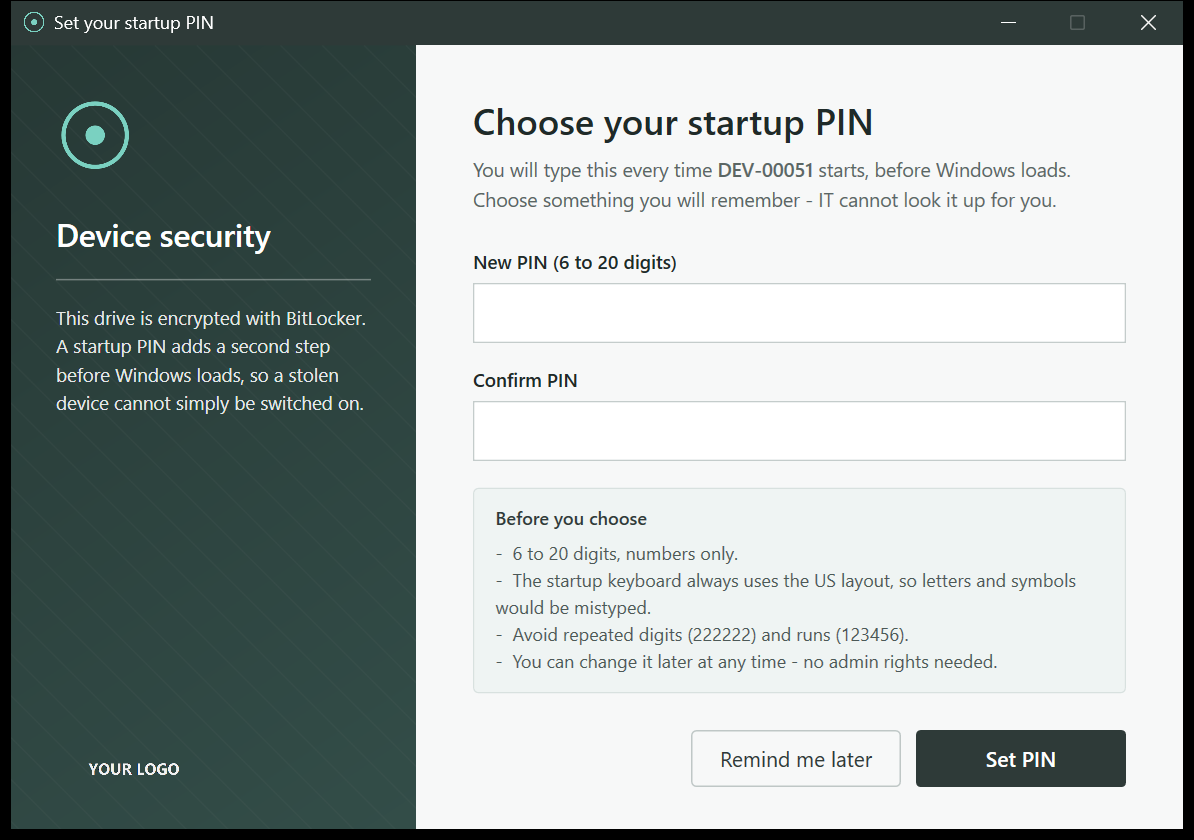
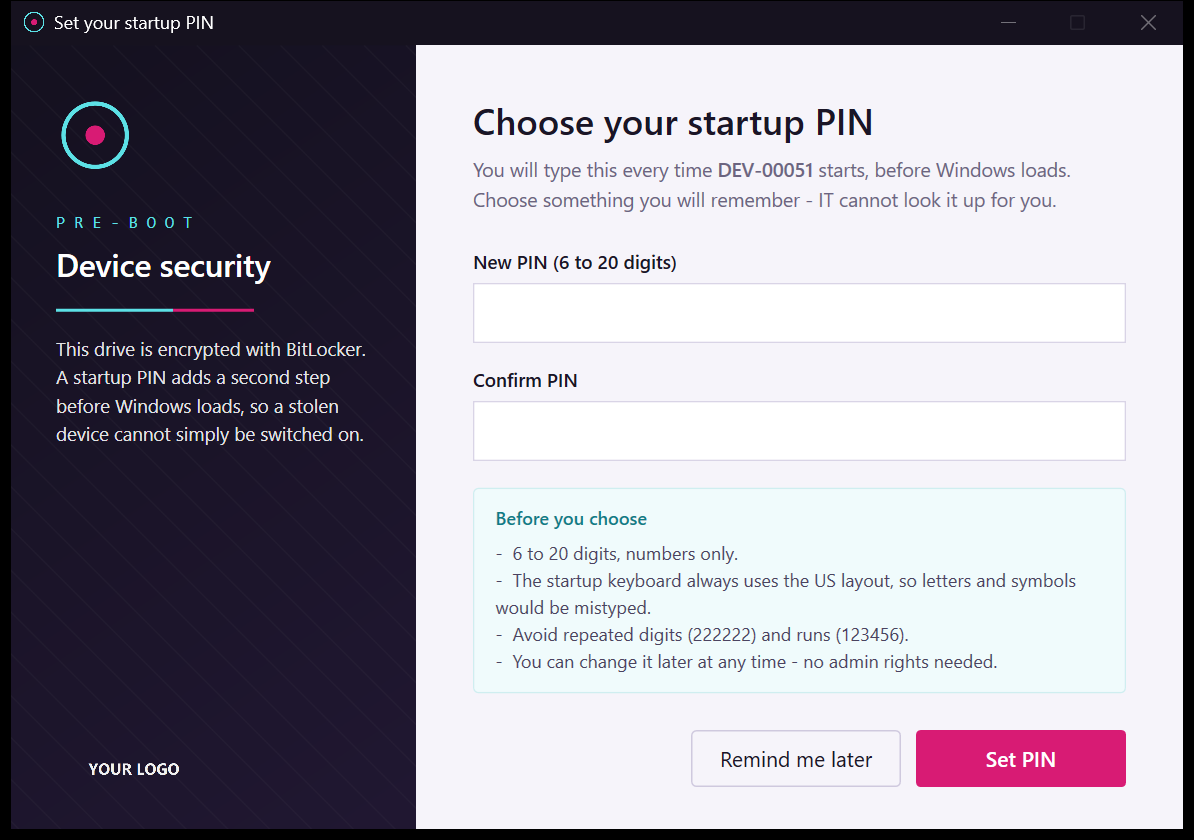
feat: re-theme both windows as an arcade cabinet
The palette was a desaturated green-grey that read as neither corporate nor
deliberate. It is replaced by an arcade cabinet: a violet-black body, CRT
phosphor cyan, and a magenta marquee.

Deliberately not near-black plus an acid-green accent, which is where this kind
of retheme usually lands and is close to where the palette already was.

  Cabinet        #FF16121F   rail, window, title bar
  Rail scrim     #B316121F   over the wallpaper
  Phosphor       #FF5CE1E6   eyebrow and rule, dark surfaces only
  Phosphor deep  #FF0E7C86   the same cyan as text on light
  Marquee        #FFD81B74   primary button
  Marquee lift   #FFFF4D9D   hover, and the rule's second half
  Screen         #FFF6F4FA   form panel
  Ink            #FF1A1526   body text

The boldness is spent on the rail and nowhere else. A security prompt that looks
like a game gets dismissed, or reported as phishing, so the form panel keeps a
quiet neutral treatment and only the primary button and the tinted panel carry
the accent. An early pass set the form's section label in spaced monospace too;
that pulled the arcade register onto the work surface and was reverted.

The rail gains an eyebrow reading P R E - B O O T, spaced by hand because WPF has
no character-spacing property, and the flat 35%-white hairline becomes a two-tone
rule that introduces both accents before either does functional work. The eyebrow
names the boot stage, so the device encodes something true rather than decorating.
[…]

diff --git a/BRANDING.md b/BRANDING.md
@@ -78,18 +78,38 @@ and set the rail colour (see below).
 
 ## Colours
 
-| Knob | Default | What it does |
+The palette is an arcade cabinet: a violet-black body, CRT phosphor cyan, and a
+magenta marquee. The rail carries all of it. The form panel stays quiet, because
+a security prompt that looks like a game gets dismissed or reported as phishing.
+
+| Token | Value | Where it is used |
 |---|---|---|
-| `-BrandColour` on `Get-BrandXaml` | `#FF16121F` | Fills the rail when there is no `brand-background.png`. It is the same value as the window background, so an unbranded rail reads as a design choice |
-| Window background (in the XAML) | `#FF16121F` | Also painted onto the **native Windows 11 title bar** through DWM, so the real minimise/close buttons, snapping and accessibility all keep working — a hand-rolled caption bar would lose those. Silently ignored on Windows 10 |
-| Rail scrim | `#B316121F` | Fixed. See above |
+| Cabinet | `#FF16121F` | Rail fallback (`-BrandColour` on `Get-BrandXaml`), window background, and the native title bar — painted through DWM by `Set-BrandedTitleBar`, so the real minimise/close buttons, snapping and accessibility keep working. Silently ignored on Windows 10, which keeps its default caption |
+| Rail scrim | `#B316121F` | Over the wallpaper. Fixed |
+| Phosphor | `#FF5CE1E6` | The `PRE-BOOT` eyebrow and the left half of the rule. **Dark surfaces only** |
+| Phosphor deep | `#FF0E7C86` | The same cyan as text on the light panel, darkened to clear 4.5:1 |
+| Marquee | `#FFD81B74` | Primary button. Darkened from the brighter tone so white text on it clears 4.5:1 |
+| Marquee lift | `#FFFF4D9D` | Button hover, and the right half of the rule |
+| Screen | `#FFF6F4FA` | Form panel |
+| Ink | `#FF1A1526` | Body text on the panel |
 
 All are `#AARRGGBB` — alpha first. `FF` is opaque, `B3` is ~70 %.
 
-To change the palette, edit `Get-BrandXaml` in `BitLockerPin.Common.ps1` and the
-`Background=` attributes in the two XAML blocks in `Set-BitLockerPin.ps1`. Keep
-the rail colour and the window background identical, or the unbranded fallback
-looks like a rendering bug.
+**The rail is where the personality lives.** Its eyebrow is set in spaced
+monospace (`P R E - B O O T`) because WPF has no character-spacing property and
+that register is the point — it names the boot stage, which is real information,
+not decoration. The rule under the heading is two-tone, cyan into magenta,
+introducing both accents before either is used for anything functional.
+
+To change the palette, edit `Get-BrandXaml` in `BitLockerPin.Common.ps1`, the
+`Background=` attributes in the two XAML blocks in `Set-BitLockerPin.ps1`, and
+the `-Colour` default on `Set-BrandedTitleBar`. Keep the rail colour, the window
+background and the title bar identical, or the unbranded fallback looks like a
+rendering bug.
+
+If you re-theme, check contrast on the two that carry text: white on the primary
+button, and the phosphor-deep label on the tinted panel. Both sit just above
+4.5:1 by design, so a small lightening breaks them.
 
 ---
 
